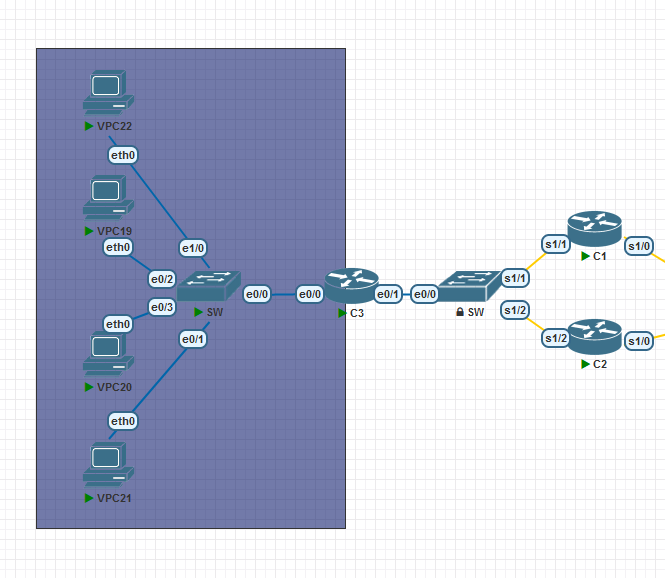
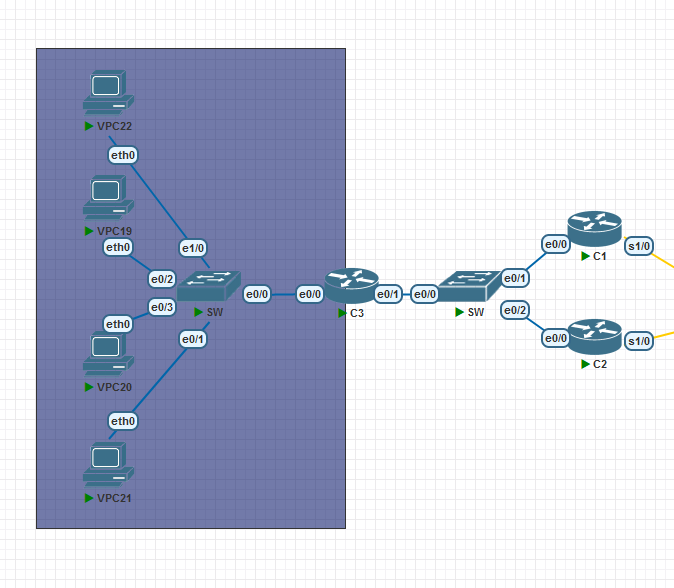
Actualizada la ayuda del proyecto

Changed region(s): [[0.0301, 0.0623, 1.0, 0.9343]]

diff --git a/Proyecto2/README.md b/Proyecto2/README.md
@@ -29,3 +29,5 @@ La sede Central quedaría así:
 De nuevo se tuvo que agregar un switch, esta vez entre C3 y C1 y C2, las ips definidas anteriormente siguen siendo las mismas y la ip para la interfaz e0/1 de C3 quedaría definida como 192.177.XX.4, esta red también con máscara /24.
 
 Se deben establecer las rutas estáticas necesarias para que exista la comunicación.
+
+<font size="5">**Atención: Se cambió el tipo de enlaces entre SW y los routers C1 y C2, ahora son de tipo Ethernet.**</font>
